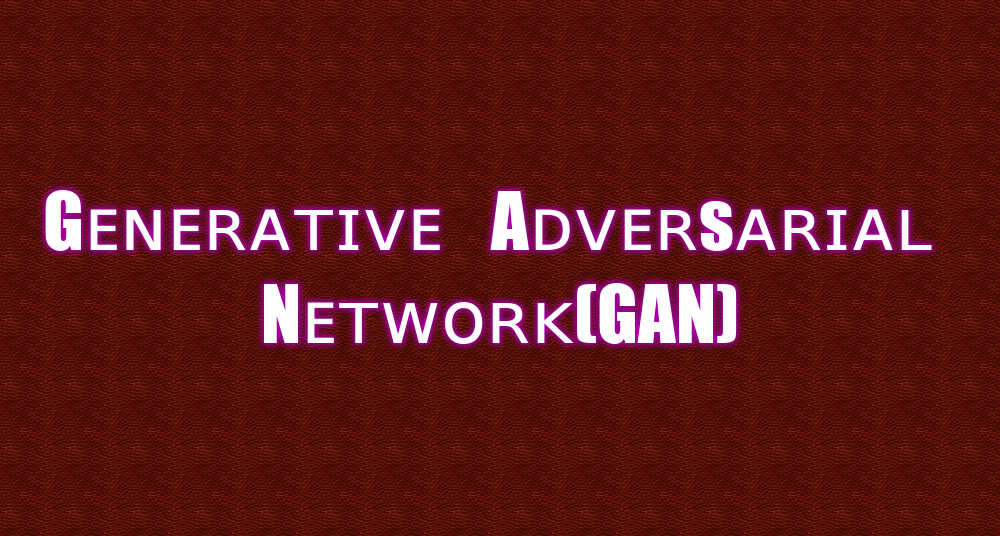
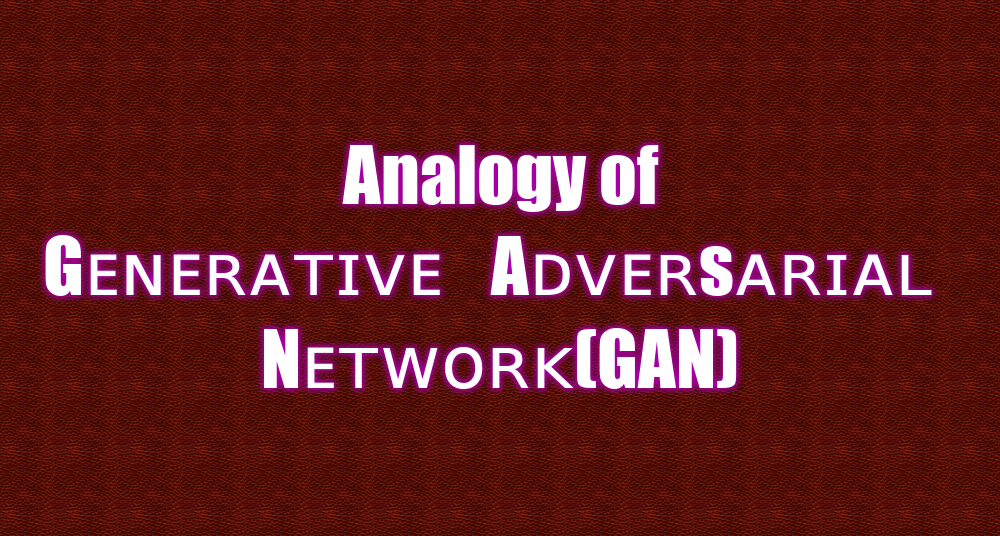
gan_analogy

Changed region(s): [[0.031, 0.2388, 0.961, 0.7463]]

diff --git a/_posts/2020-04-12-gan-intro.md b/_posts/2020-04-12-gan-intro.md
@@ -13,6 +13,10 @@ thumbnail: gan_01_thumbnail.png
 > ✍ Topic : Generative Adversarial Network(GAN)
 
 <h2>👉 Learn before:  Analogy of Generative Adversarial Network(GAN)
+<p>  </p>
+<br>
+<hr>
+___________________________________________________________
 <a style= "border-radius: 4px;
 						background-color: #f4511e;
 						border: none;
@@ -27,9 +31,10 @@ thumbnail: gan_01_thumbnail.png
 						text-decoration: none"
 
 					href="https://jahidme.github.io/gan/2020/04/11/gan-analogy/#/" >Read</a>
-
+<p>  </p>
 <br>
-
+<hr>
+___________________________________________________________
 
 <h2> <b>  <center> Introduction</center>  </b> </h2>
 

diff --git a/_posts/2020-04-14-gan-analogy.md b/_posts/2020-04-14-gan-analogy.md
@@ -118,6 +118,10 @@ guaranteed and the two players can continue playing for a long time.
 
 
 <h2>👉 Learn more about GAN network and algorithm here. </h2>
+<p>  </p>
+<br>
+<hr>
+___________________________________________________________
 <a style= "border-radius: 4px;
 						background-color: #f4511e;
 						border: none;
@@ -133,7 +137,10 @@ guaranteed and the two players can continue playing for a long time.
 
 					href="https://jahidme.github.io/deep%20learning,%20cnn,%20gan/2020/04/11/gan-intro/#/" >Read</a>
 
+<p>  </p>
 <br>
+<hr>
+___________________________________________________________
 
 <h2>👉 Application of GAN</h2>
 
